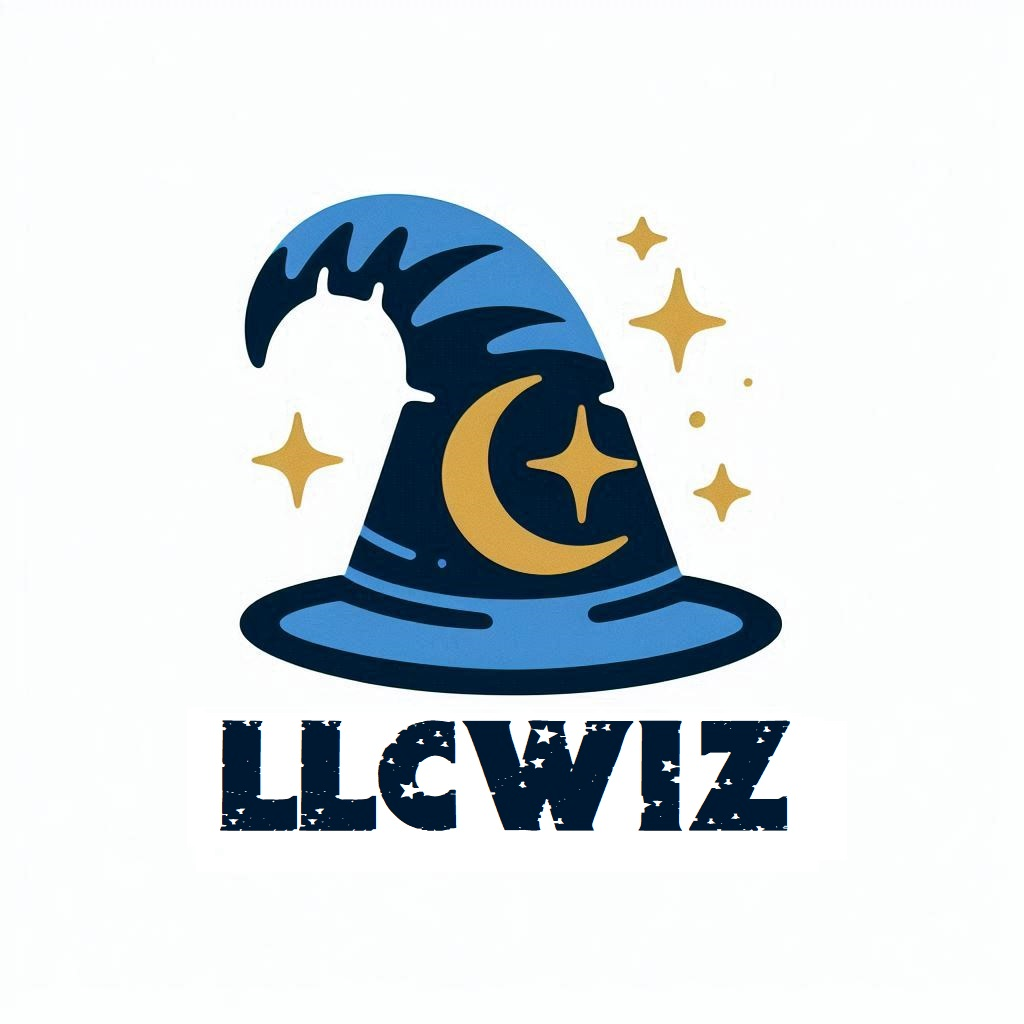
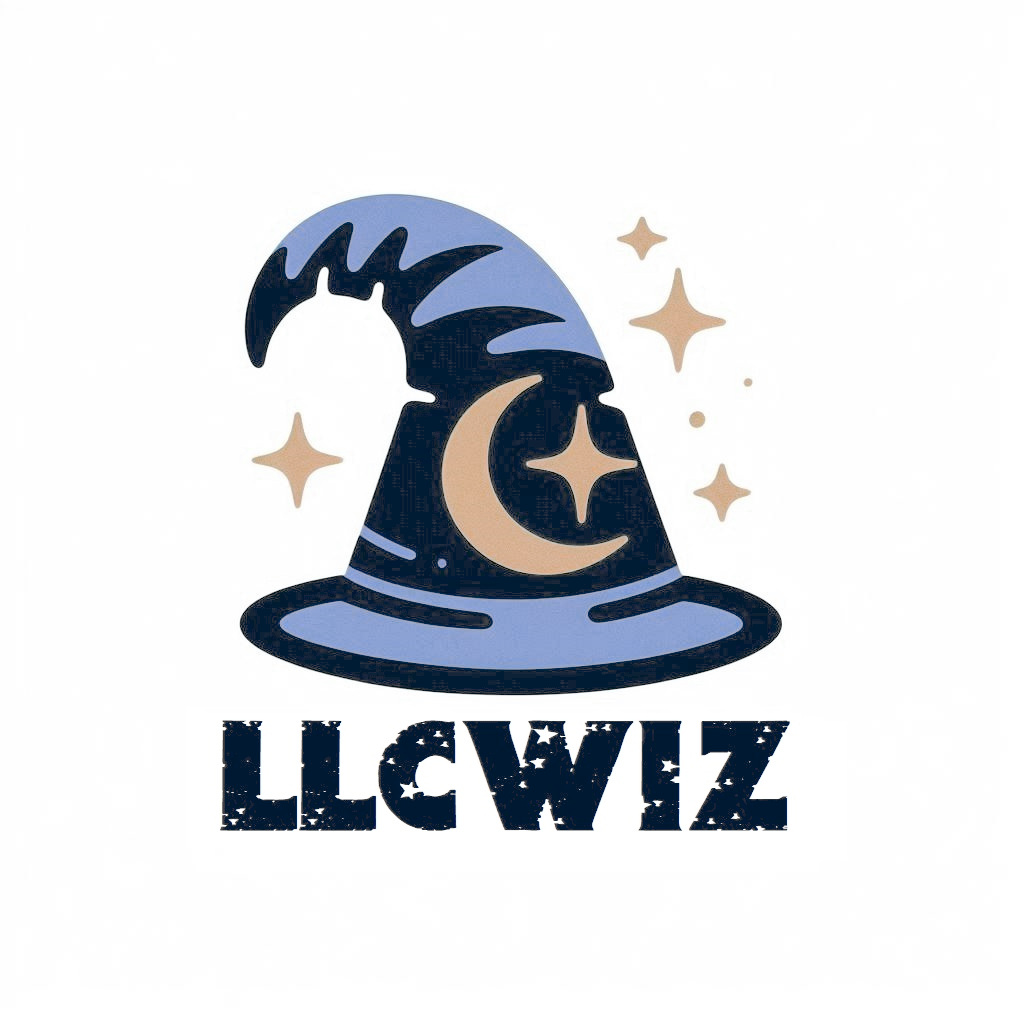
1

diff --git a/index.html b/index.html
@@ -6,10 +6,14 @@
     <title>Coming Soon</title>
     <style>
         body {
+	    background-image:url('LLCWIZ_TRANSPARENT_BG_1024x1024.png');
             font-family: Arial, sans-serif;
             text-align: center;
             padding: 10px;
-            background-color: #ffffff;
+	    background-repeat: no-repeat; 
+	    background-color: #cccccc;
+            width: 900px;
+	    background-blend-mode: color-dodge;
         }
         h1 {
             color: #333;
@@ -18,56 +22,42 @@
             color: #666;
             font-size: 18px;
         }
-	.animated-image {
-            width: 350px; /* Adjust the size as needed */
-            height: 350px;
-            animation: shake 3s infinite;
-	    background-repeat: no-repeat; 
-            background-color: #f2f2f2;
-	    background-color: rgba(255,255,255,0.3);
-        }
-	@keyframes shake {
-            0% {
-                transform: translateX(0);
-            }
-            2.5% {
-                transform: translateX(-10px);
-            }
-            5% {
-                transform: translateX(10px);
-            }
-            7.5% {
-                transform: translateX(-10px);
-            }
-            10% {
-                transform: translateX(10px);
-            }
-            12.5% {
-                transform: translateX(-10px);
-            }
-            15% {
-                transform: translateX(10px);
-            }
-            17.5% {
-                transform: translateX(0);
-            }
-            20% {
-                transform: translateX(0);
-            }
-            100% {
-                transform: translateX(0);
-            }
-        }
     </style>
 </head>
 <body>
     <h1>LLCWIZ.COM</h1>
     <h1>Our Website is Coming Soon</h1>
     <h2>ETA June, 2024</h2>
-    <p>We're currently working hard to bring you an amazing website. Stay tuned for more updates!</p>
-    <p>In the meantime, you can reach us at <a href="mailto:sales@llcwiz.com">sales@llcwiz.com</a>.</p>
+    <p align="left">We're currently working hard to bring you an amazing website. Stay tuned for more updates!</p>
+    <p align="left">In the meantime, you can read more about us below, or reach us at <a href="mailto:sales@llcwiz.com">sales@llcwiz.com</a>.</p>
+
+    <p align="left">
+    To get "sneak peek" of what we're about, continue reading.
+    </p>
+    <p align="left">
+    LLCWIZ.com is an innovative online portal designed to make the process of forming and running a limited liability company (LLC) informative and cost effective for aspiring entrepreneurs. With a commitment to transparency and simplicity and flexible DIY options, LLCWIZ.com offers an easy-to-use wizard calculator that provides upfront all-inclusive cost estimates, ensuring you know exactly what you're paying for, to whom you money goes, and what your expected recurring obligations will be.
+    </p>
+
+    <p align="left">
+At the heart of LLCWIZ.com's services is a comprehensive compliance package that caters to all your basic business needs in one convenient interface. Whether you require our basic LLC formation and Registered Agent service, or our full suite including obtaining a Federal Employer Identification Number (FEIN), securing a business license, DBA (doing business as) aliases, and registering for sales tax, LLCWIZ.com streamlines the entire process through a single portal and a one-time payment.
+    </p>
+
+    <p align="left">
+But LLCWIZ.com goes beyond just compliance. The platform also offers a range of technology services to support your business growth. From domain registration and SSL certificates to DNS configuration, email services, mailing services, and hosting solutions, LLCWIZ.com ensures that your online presence and digital infrastructure are secure and optimized for success.
+    </p>
+
+    <p align="left">
+LLCWIZ.com was born out of a very difficult personal experience from using a well-marketed service provider with a confusing lack of transparency, exorbitant recurring charges, and very difficult cancellation procedures. Recognizing the need for a better way to help new entrepreneurs, LLCWIZ.com was founded with the mission of empowering business owners through a detailed pricing structure by entity, DIY options and assistance, full disclosure of estimated recurring charges, and a commitment to exceptional customer service.
+    </p>
+
+    <p align="left">
+With LLCWIZ.com, you can rest assured that you're working with a trusted partner and supporting infrastructure that prioritizes your best interests. The platform's intuitive wizard calculator, much easier to use than a spreadsheet, guides you through the decision-making process, enabling you to choose the perfect combination of DIY and full-service solutions tailored to your specific needs.
+    </p>
+
+    <p align="left">
+If you're just starting out, LLCWIZ.com is the ultimate one-stop-shop for all your LLC formation and technology needs.
+    </p>
     <br/>
     <br/>
-    <center><img class="animated-image" src="LLCWIZ_large.jpg" alt="Animated Image"></center>
 </body>
 </html>
